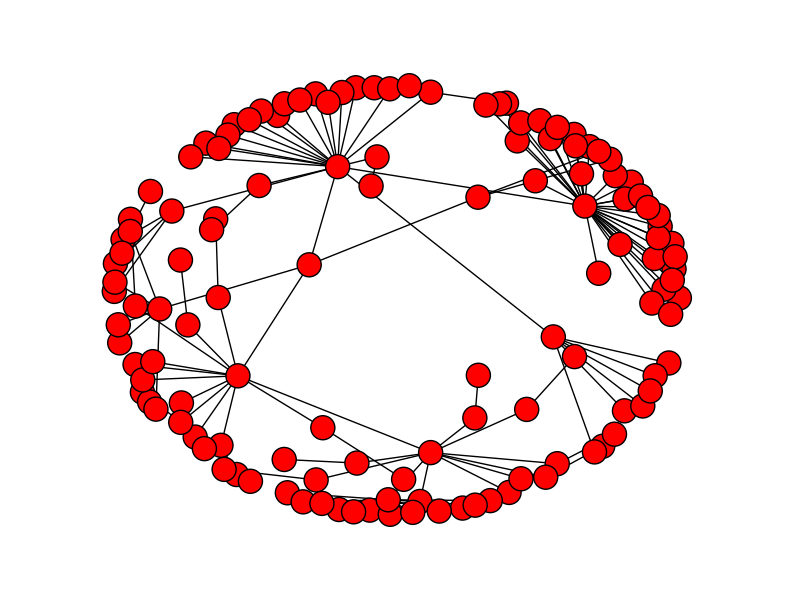
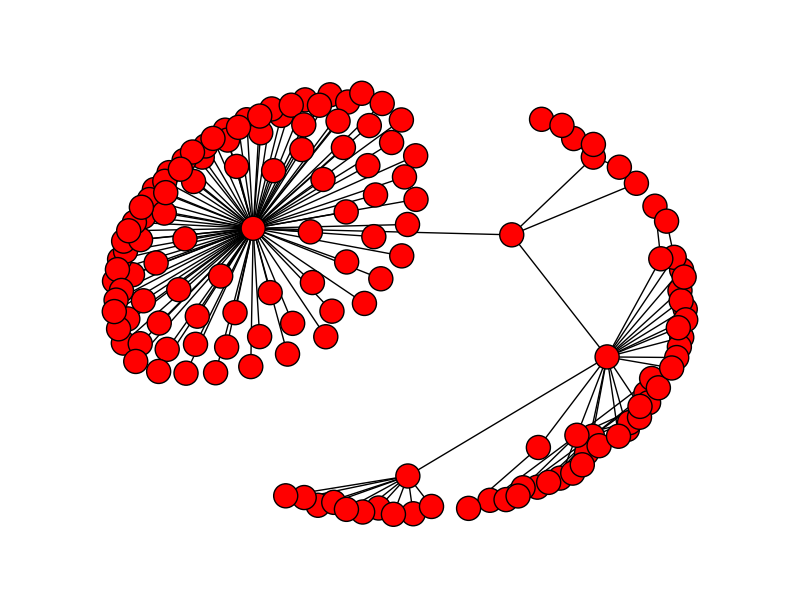
Added Relative Linking

diff --git a/crawler.py b/crawler.py
@@ -40,7 +40,8 @@ class Crawler(object):
 # A simple crawl function based on breadth first search and limited by maxdepth
 # and by the maximum number of pages that can be indexed
 
-	def Crawl(self, maxdepth = 5, maxpages = 100):
+	def Crawl(self, maxdepth = 5, maxpages = 100, only_sublinks = False):
+
 		q = Queue.Queue()
 		q.put(self.base)
 		self.depth[self.base] = 0
@@ -48,36 +49,41 @@ class Crawler(object):
 		links = list()
 		added = list()
 		added.append(self.base)
-		pages = 0
-		while (not q.empty() and pages < maxpages): # Crawling a maximum of maxpages
+
+		while ((not q.empty()) and (len(self.predecessor) < maxpages)): # Crawling a maximum of maxpages
 			currURL = q.get()
 			
 			#print currURL
 			self.index.append(currURL)
 			if (self.depth[currURL] > maxdepth):	# Don't crawl more than the maxdepth
 			 	break
-			links = self.get_links(currURL)
+
+			links = self.get_links(currURL, only_sublinks)
 			for curr_link in links:
 				if curr_link not in added:
 					q.put(curr_link)
 					added.append(curr_link)
 					self.predecessor[curr_link] = currURL
 					self.depth[curr_link] = 1 + self.depth[currURL]
-					pages += 1
+
 			#print "New Page"
 
 # A function that returns a list of all hyperlinks on the input URL
 
-	def get_links(self, URL):
+	def get_links(self, URL, only_sublinks):
 		html = self.open(URL)	# Open the input URL
 		p = Parser(html)
-		p.find_href()
-		return p.allhref
-
+		if not only_sublinks:
+			p.find_href(self.base)
+			return p.allhref
+		else:
+			p.find_subhref(self.base)
+			return p.sublinks
+				
 
 	def save_URLS(self):
 		try:
-			file_name = (self.base).replace('/', '')
+			file_name = (self.base).replace('://', '')
 			with open("data/%s_index.json" % file_name, 'w') as fp:
 				json.dump(self.index, fp)
 			

diff --git a/parser.py b/parser.py
@@ -5,11 +5,12 @@
 
 class Parser(object):
  	allhref = []
+ 	sublinks = []
 
  	def __init__(self, data = None):
  		self.data = data
 
-	def find_href(self):
+	def find_href(self, base):
 		position = 0
 		while True:
 			if self.data:
@@ -19,14 +20,30 @@ class Parser(object):
 				else:
 					start_q = self.data.find('"', position)
 					end_q = self.data.find('"', start_q + 1)
-					url = self.data[start_q+1:end_q]
+					link = self.data[start_q+1:end_q]
 					# if(url[0:4] == "http"):
-					self.allhref.append(url)
+					if link not in self.allhref:
+						self.allhref.append(link)
 					# Filter the appropriate URLs
 					position = end_q
 			else:
 				break
 
+		for i in range(0, len(self.allhref)):
+			if ("http" or "https") not in self.allhref[i]:
+				self.allhref[i] = base + self.allhref[i]
+
+
+	def find_subhref(self, base):
+		# if not self.allhref:
+		self.find_href(base)
+
+		# Check for different cases - relative links, https: - but then wrt to base
+		for link in self.allhref:
+			if base in link:
+				self.sublinks.append(link)
+
+	# def only_html(self, text):
 
 # p = Parser(code)
 # p.find_href()

diff --git a/main.py b/main.py
@@ -3,21 +3,21 @@ from crawler import *
 def main():
 	try:
 		C = Crawler(str(argv[1]))
-		#print C.open()
-		#print "Opened the Base page"
-		C.Crawl(maxpages = 100)
+		C.Crawl(maxpages = 200, only_sublinks = False)
 		#print C.get_links(C.base)
-		print C.index
-		print C.depth.values()
-		print C.predecessor.values()
-		C.save_URLS()
-		C.plot()
 
 	except (ValueError and IndexError):
 		print "No URL specified"
 
 	except:
 		print "An unexpected error occured"
+	
+	print "Crawled a total of " + str(len(C.predecessor)) + " pages"
 
+	# print C.index
+	# print C.depth.values()
+	# print C.predecessor.values()
+	C.save_URLS()
+	C.plot()
 
 main()

diff --git a/visualize.py b/visualize.py
@@ -10,14 +10,14 @@ import matplotlib.pyplot as plt
 def plot_network(baseURL = None):
 	if baseURL:
 		G = nx.Graph()
-		filename = "data/%s_pred.json" % baseURL	# Name of json file to be opened
+		filename = "data/%s_pred.json" % baseURL	# Name of json file to open the data from.
 		data = openpred(filename)
 		for URL in data:
 			G.add_edge(URL,data[URL])
 		
 		nx.draw(G)
 		plt.show()
-		plt.savefig("data/%s.png" % baseURL)
+		# plt.savefig("data/%s.png" % baseURL)
 
 
 def openpred(filename = None):

diff --git a/readme.md b/readme.md
@@ -1,34 +1,37 @@
-<h2>A Web Crawler and Network Visualizer in Python.</h2>
-The program crawls the given website by following anchor tags using Breadth First Search.
+<h2>CrawlnPeek | A Micro WebCrawler and Network Visualizer </h2>
+The program <b>crawls</b> the given website URL by following anchor tags based on Breadth First Search and indexes the website.
+Then it saves the relevant crawled data in JSON and <b>visualizes</b> the domain's connectivity.
 
-<b>Usage:</b>
+<h3>Usage:</h3>
 
 python main.py <http://www.example.com>
 
-<b>Features:</b>
+<h3>Features:</h3>
 - Creates a list of all pages indexed on a website
 - Creates a list of indexed pages with their relative depths and respective predecessors
 - Creates an image of the website network
 - Saves the indexed URLs to a JSON file
 - Added robustness to handle complex data parsing and broken hyperlinks
 - Added limits for maxdepth and maxpages indexed
+- Added support for relative links i.e. (href = "/source")
 
-<b>Requirements:</b>
-- <a href = "http://docs.python-requests.org/en/latest/">Requests</a> or Requests[Security] to allow a true SSL connections
+
+<h3>Requirements:</h3>
+- <a href = "http://docs.python-requests.org/en/latest/">Requests</a> or Requests[Security] to allow true SSL connections
 - <a href = "https://docs.python.org/3/library/json.html">JSON</a> library
 - <a href = "http://matplotlib.org/api/pyplot_api.html">Matplotlib</a> to allow plotting the graph
 - <a href = "https://networkx.github.io/">Networkx</a> to create the Graph using the list data
 
+<h3>Examples:</h3>
 <b>An image of codeacademy.com Network:</b>
 <div align = "center"><img src = "data/codecademy.png"></div>
-<b>An image of google.com Network:</b>
+<b>An image of google.com Network @ 100 pages:</b>
 <div align = "center"><img src = "data/googlemap.png"></div>
 
-<b>TODO :</b>
+<b>NOTE</b>: Crawling can sometimes a really long time depending on the maxpages specified. It has a default value of 100 pages.
 
-Add functionality for parsing links that don't start with http
-i.e. Support for relative links (href = "/source")
-
-Add functionality to limit crawling to links that are subdomains of the input URL.
+<h3>Future:</h3>
+- Set up a web app to perform crawling on a given user query and then present an interactive visualization.
+- Use d3.js to visualize the website tree.
 
 Author - bagarwa2
